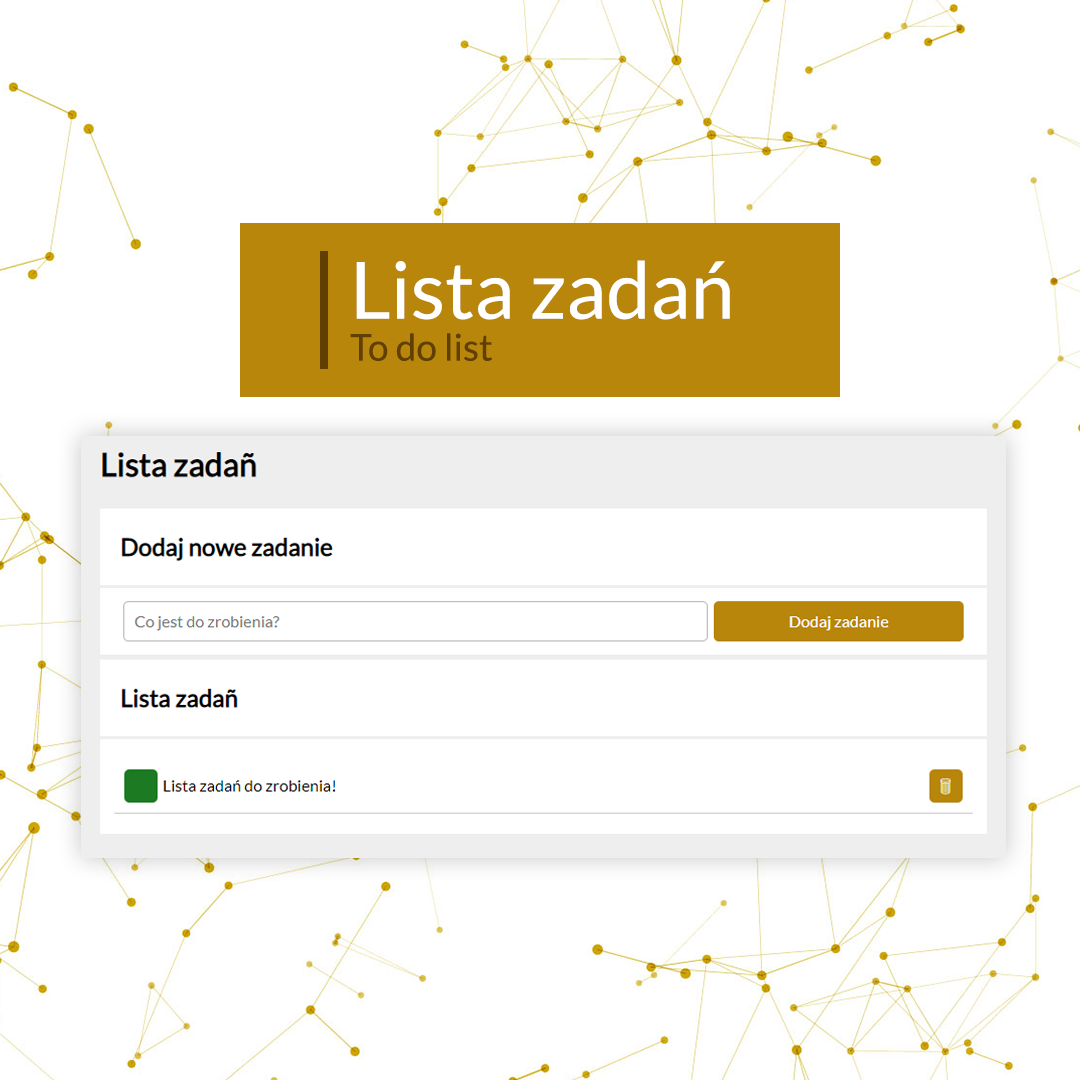
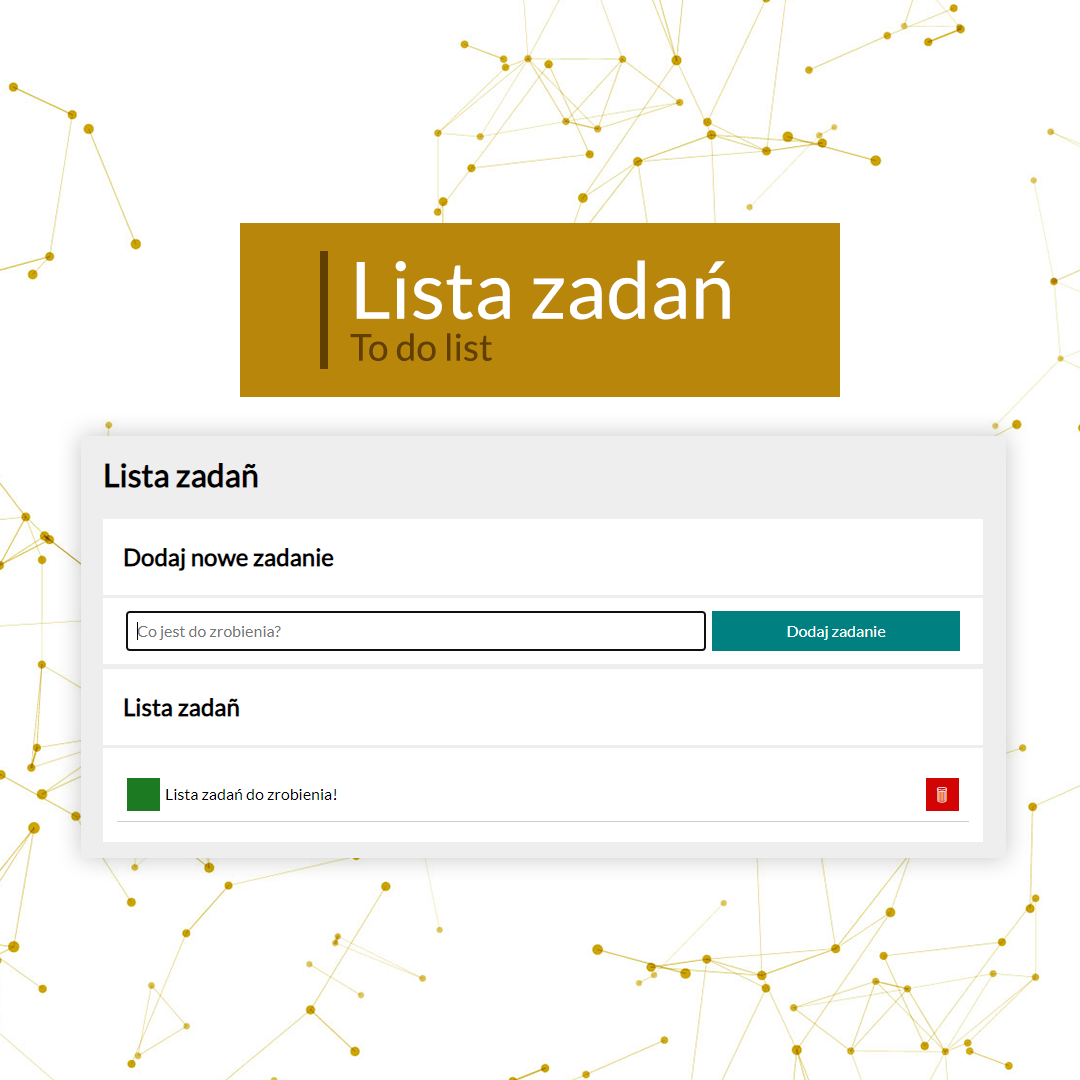
udate form css

diff --git a/css/form.css b/css/form.css
@@ -17,16 +17,16 @@
 .form__field {
     border: 1px solid rgb(184, 184, 184);
     padding: 10px;
-    border-radius: 5px;
+    /* border-radius: 5px; */
     flex-grow: 3;
     margin: 3px;
 }
 
 .form__button {
-    background-color: darkgoldenrod;
+    background-color: teal;
     color: white;
     border: none;
-    border-radius: 5px;
+
     padding: 10px;
     margin: 3px;
     flex-grow: 1;
@@ -40,9 +40,9 @@
 }
 
 .form__button:hover {
-    background-color: rgb(202, 152, 26);
+    background-color: rgb(2, 100, 100);
 }
 
 .form__button:active {
-    background-color: #e6b531;
+    background-color: rgb(2, 100, 100);
 }

diff --git a/css/list.css b/css/list.css
@@ -40,7 +40,7 @@
 .taskList__button--done {
     grid-column: 1;
     background-color: #1b7a22;
-    border-radius: 5px;
+    
     
 }
 
@@ -50,8 +50,8 @@
 
 .taskList__button--remove {
     grid-column: 3;
-    background-color: darkgoldenrod;
-    border-radius: 5px;
+    background-color: #d30404;
+    
 }
 
 .taskList__button--remove:hover {
